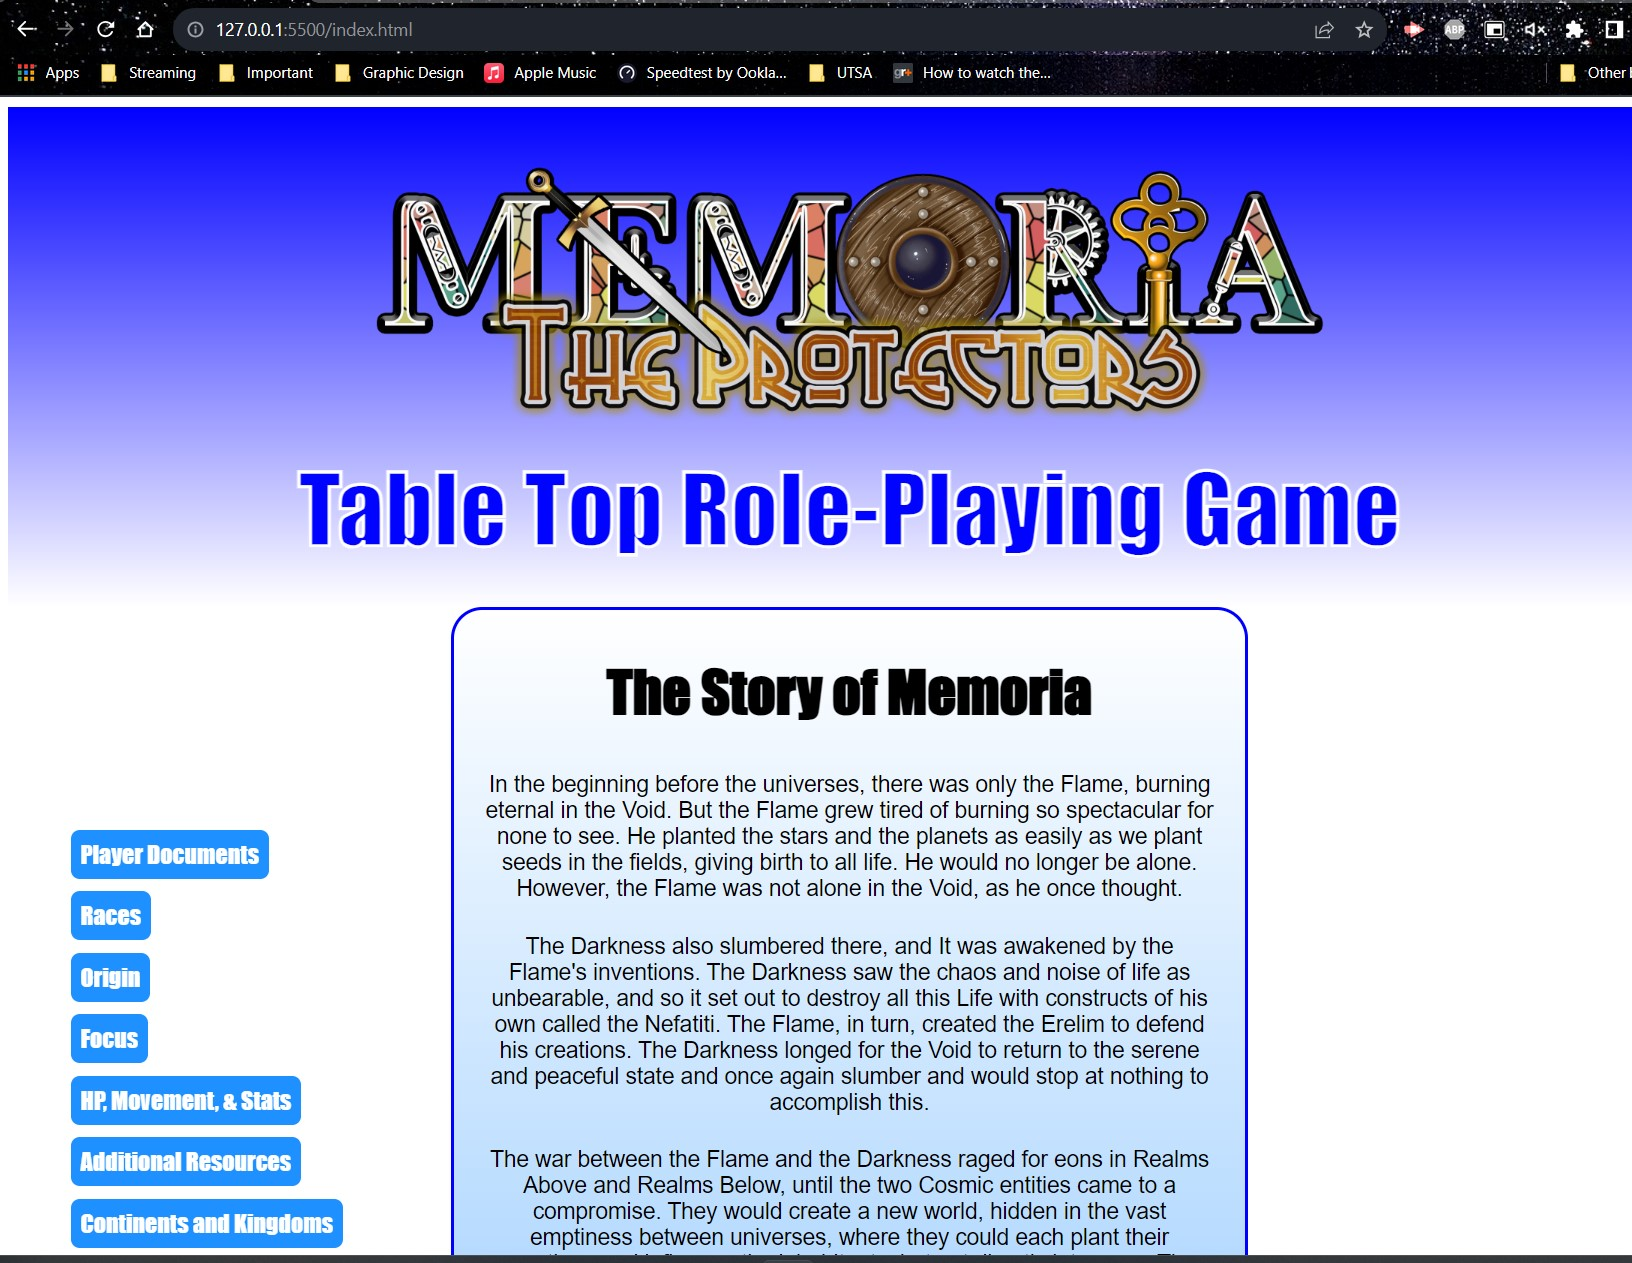
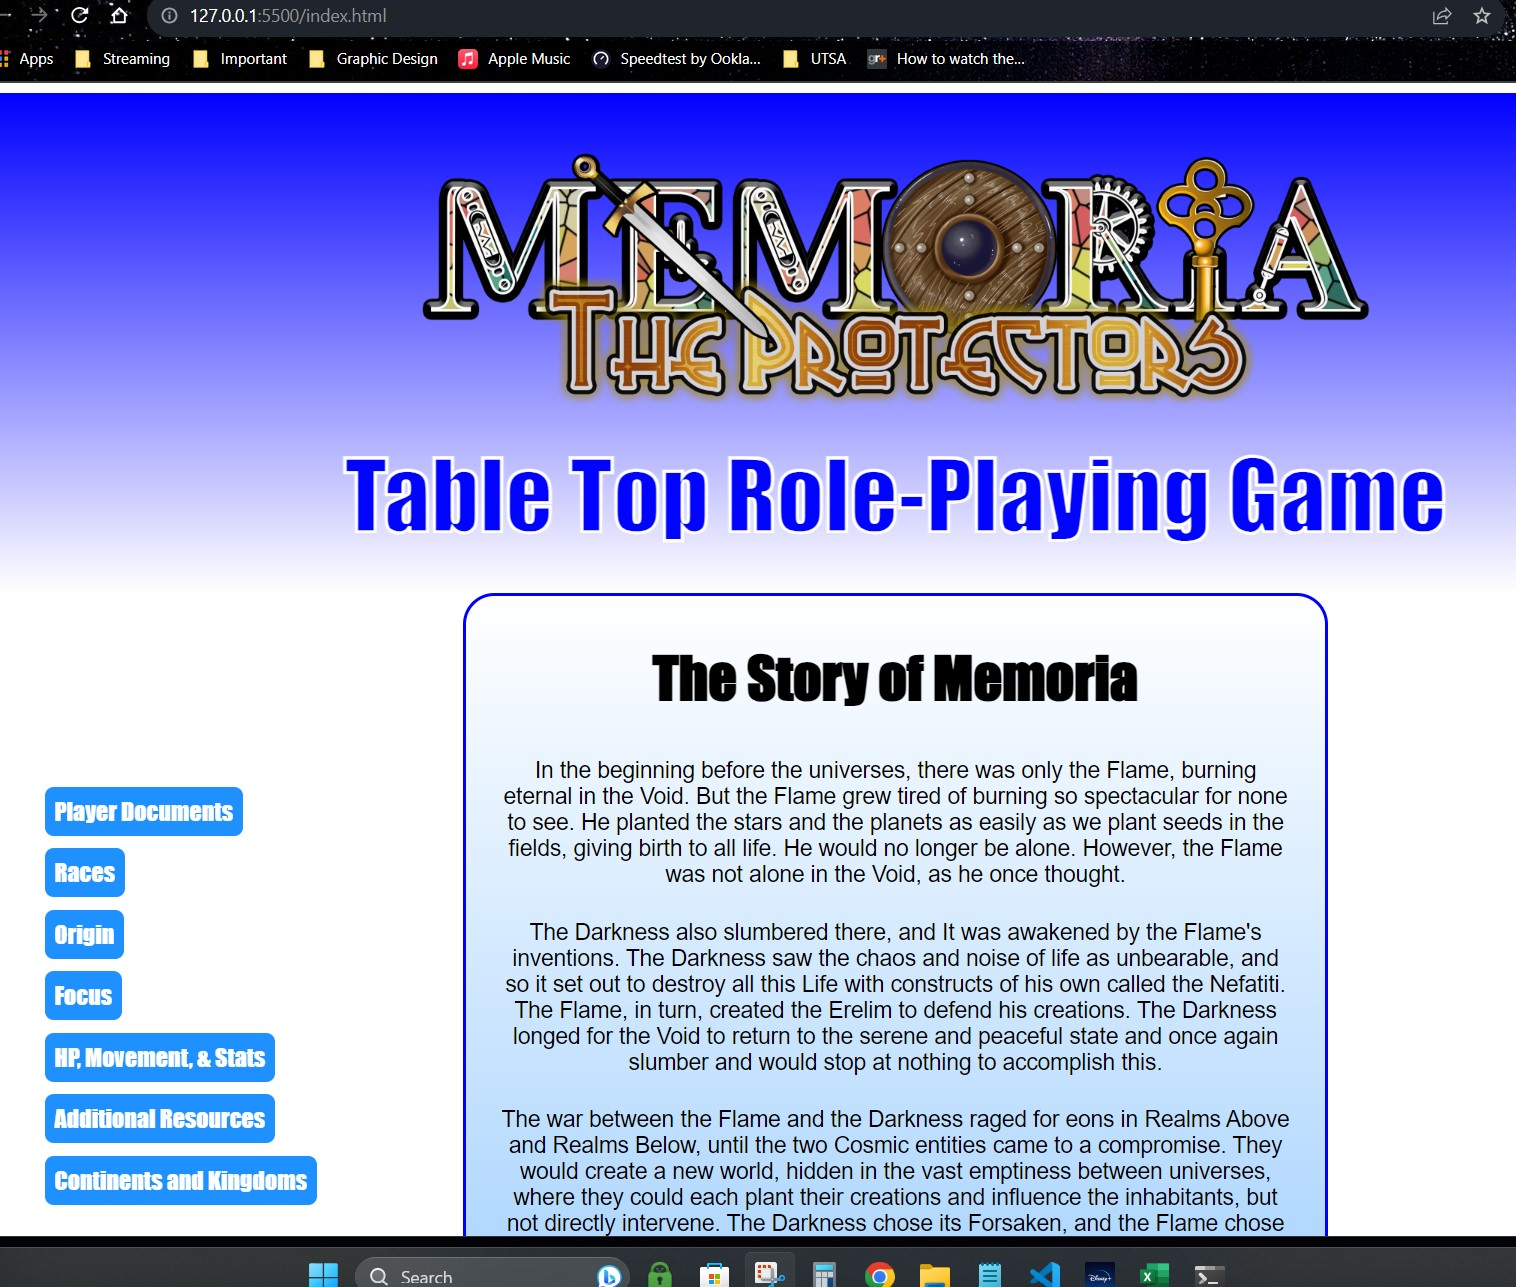
Added Media Querie-still not working

diff --git a/assets/css/style.css b/assets/css/style.css
@@ -272,23 +272,62 @@ color: #404045;
 
 
 @media screen and (max-width: 992px) {
-  .gallery {
+  body {
+    width: 100%;
+    display: inline-block;
+  }
+
+  header {
+    width: 100%;
+    display: inline-block;
+  }
+
+  section {
+    width: 100%;
+    display: inline-block;
+  }
+
+  div: {
+    width: 100%;
+    display: inline-block;
+  }
+
+  footer: {
+    width: 100%;
+    display: inline-block;
+  }
+}
+
+
+@media screen and (max-width: 768px) {
+  body {
     width: 50%;
-    display: inline-block
+    display: inline-block;
+  }
+
+  header {
+    width: 50%;
+    display: inline-block;
+  }
+
+  section {
+    width: 50%;
+    display: inline-block;
+  }
+
+  div: {
+    width: 50%;
+    display: inline-block;
+  }
+
+  footer: {
+    width: 50%;
+    display: inline-block;
   }
 }
 
-
 @media screen and (max-width: 768px) {
-  .gallery {
-    width: 100%;
-    display: inline-block
-  }
-}
-
-@media screen and (max-width: 768px) {
-  .header {
-    width: 100%;
-    display: inline-block
+  body {
+    width: 25%
   }
 }
